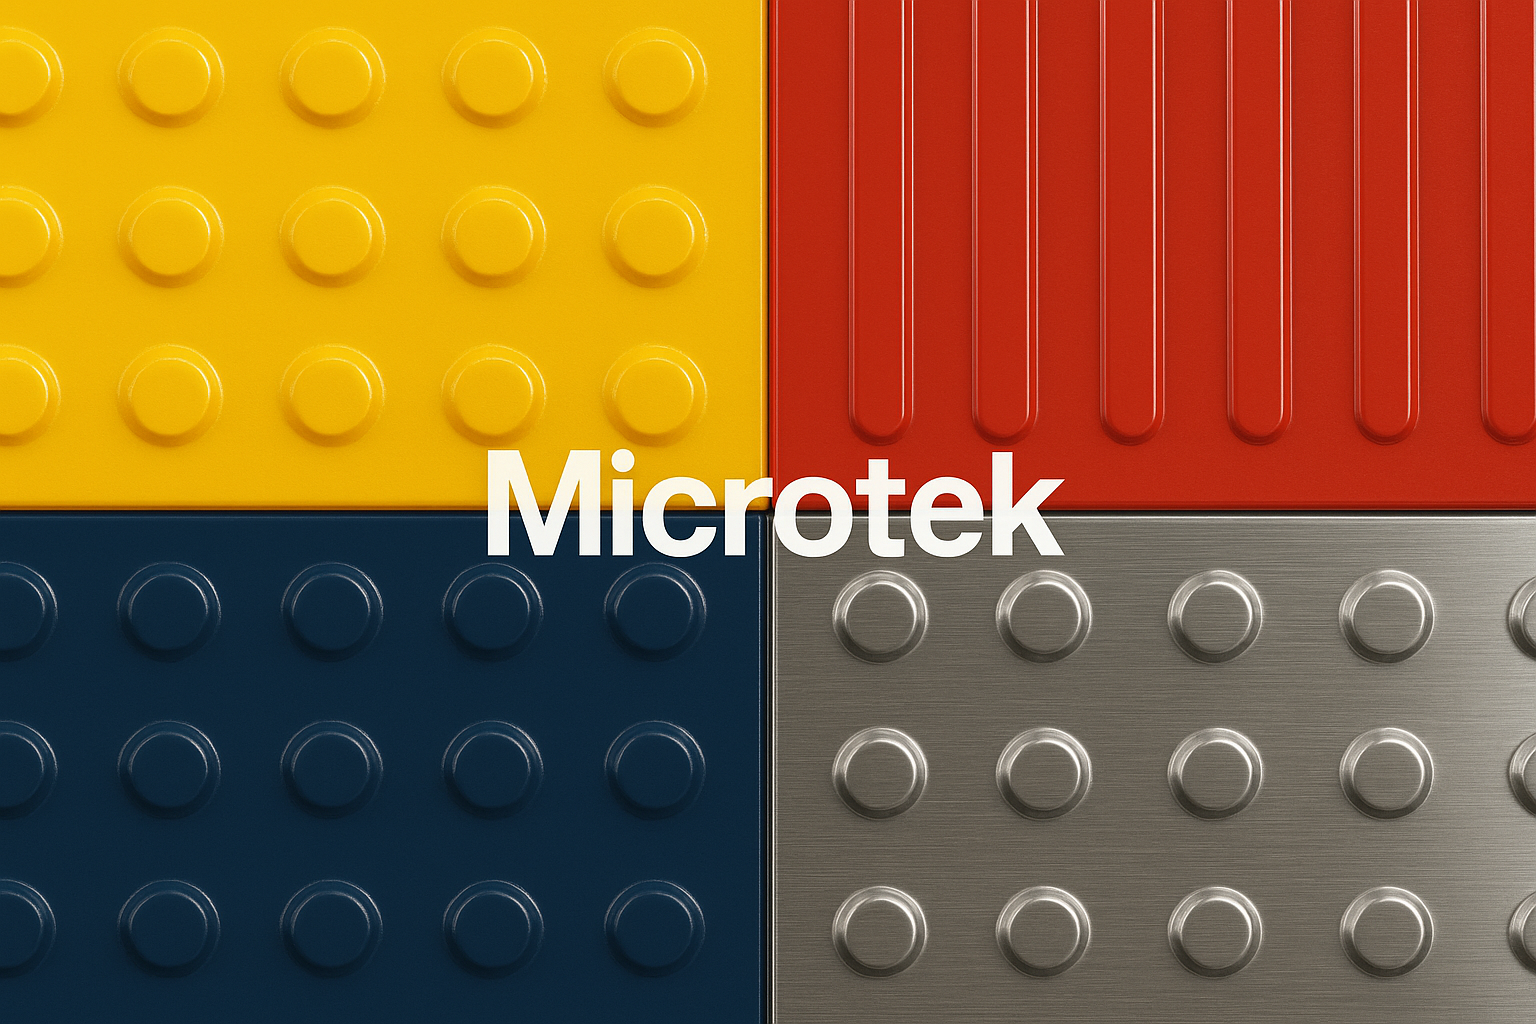
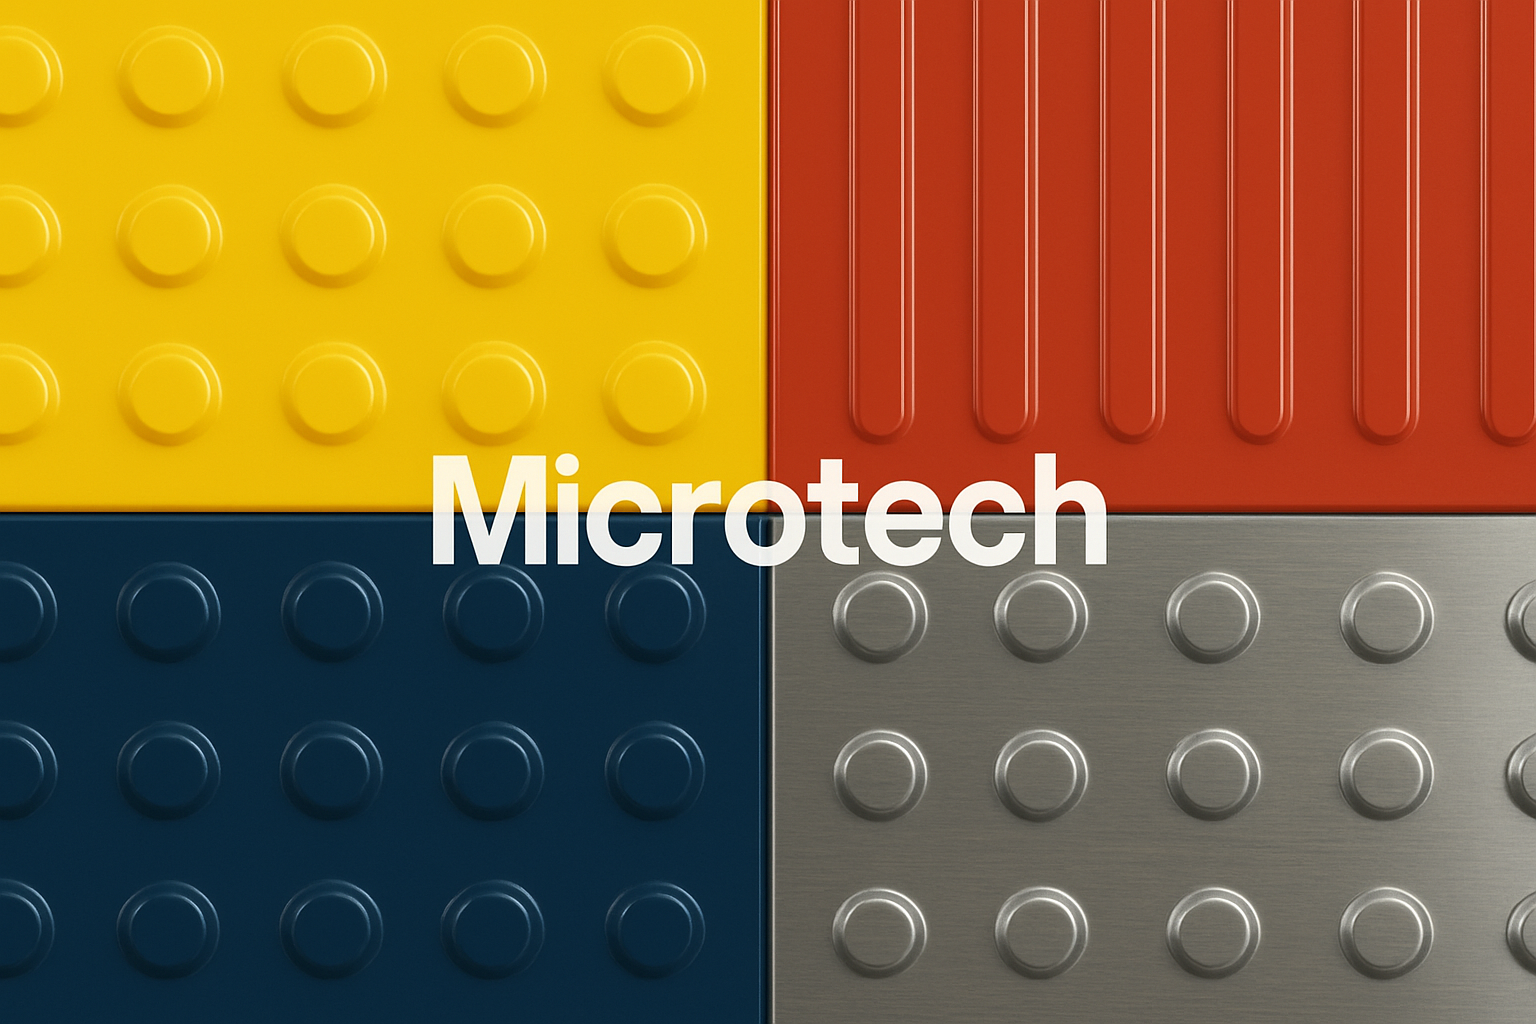
update

diff --git a/index.html b/index.html
@@ -1,6 +1,6 @@
 <!-- /*
 * Bootstrap 5
-* Name: Microtek - Tactile Guidance System
+* Name: Microtech - Tactile Guidance System
 * Author: vi8l.com
 * URI: https://vi8l.com/
 */ -->
@@ -20,22 +20,22 @@
 		<link href="https://cdnjs.cloudflare.com/ajax/libs/font-awesome/6.0.0-beta3/css/all.min.css" rel="stylesheet">
 		<link href="css/tiny-slider.css" rel="stylesheet">
 		<link href="css/style.css" rel="stylesheet">
-		<title>Microtek - Tactile Guidance System</title>
+		<title>Microtech - Tactile Guidance System</title>
 	</head>
 
 	<body>
 
 		<!-- Start Header/Navigation -->
-		<nav class="custom-navbar navbar navbar navbar-expand-md navbar-dark bg-dark" arial-label="Microtek navigation bar">
+		<nav class="custom-navbar navbar navbar navbar-expand-md navbar-dark bg-dark" arial-label="Microtech navigation bar">
 
 			<div class="container">
-				<a class="navbar-brand" href="index.html">Microtek<span>.</span></a>
+				<a class="navbar-brand" href="index.html">Microtech<span>.</span></a>
 
-				<button class="navbar-toggler" type="button" data-bs-toggle="collapse" data-bs-target="#navbarsMicrotek" aria-controls="navbarsMicrotek" aria-expanded="false" aria-label="Toggle navigation">
+				<button class="navbar-toggler" type="button" data-bs-toggle="collapse" data-bs-target="#navbarsMicrotech" aria-controls="navbarsMicrotech" aria-expanded="false" aria-label="Toggle navigation">
 					<span class="navbar-toggler-icon"></span>
 				</button>
 
-				<div class="collapse navbar-collapse" id="navbarsMicrotek">
+				<div class="collapse navbar-collapse" id="navbarsMicrotech">
 					<ul class="custom-navbar-nav navbar-nav ms-auto mb-2 mb-md-0">
 						<li class="nav-item active">
 							<a class="nav-link" href="index.html">Home</a>
@@ -406,7 +406,7 @@
 						<div class="post-entry">
 							<a href="#" class="post-thumbnail"><img src="images/post-2.jpg" alt="Image" class="img-fluid"></a>
 							<div class="post-content-entry">
-								<h3><a href="#">How To Keep Your Microtekture Clean</a></h3>
+								<h3><a href="#">How To Keep Your Microtechture Clean</a></h3>
 								<div class="meta">
 									<span>by <a href="#">Robert Fox</a></span> <span>on <a href="#">Dec 15, 2021</a></span>
 								</div>
@@ -418,7 +418,7 @@
 						<div class="post-entry">
 							<a href="#" class="post-thumbnail"><img src="images/post-3.jpg" alt="Image" class="img-fluid"></a>
 							<div class="post-content-entry">
-								<h3><a href="#">Small Space Microtekture Apartment Ideas</a></h3>
+								<h3><a href="#">Small Space Microtechture Apartment Ideas</a></h3>
 								<div class="meta">
 									<span>by <a href="#">Kristin Watson</a></span> <span>on <a href="#">Dec 12, 2021</a></span>
 								</div>
@@ -464,7 +464,7 @@
 
 				<div class="row g-5 mb-5">
 					<div class="col-lg-4">
-						<div class="mb-4 footer-logo-wrap"><a href="#" class="footer-logo">Microtek<span>.</span></a></div>
+						<div class="mb-4 footer-logo-wrap"><a href="#" class="footer-logo">Microtech<span>.</span></a></div>
 						<p class="mb-4">Donec facilisis quam ut purus rutrum lobortis. Donec vitae odio quis nisl dapibus malesuada. Nullam ac aliquet velit. Aliquam vulputate velit imperdiet dolor tempor tristique. Pellentesque habitant</p>
 
 						<ul class="list-unstyled custom-social">
